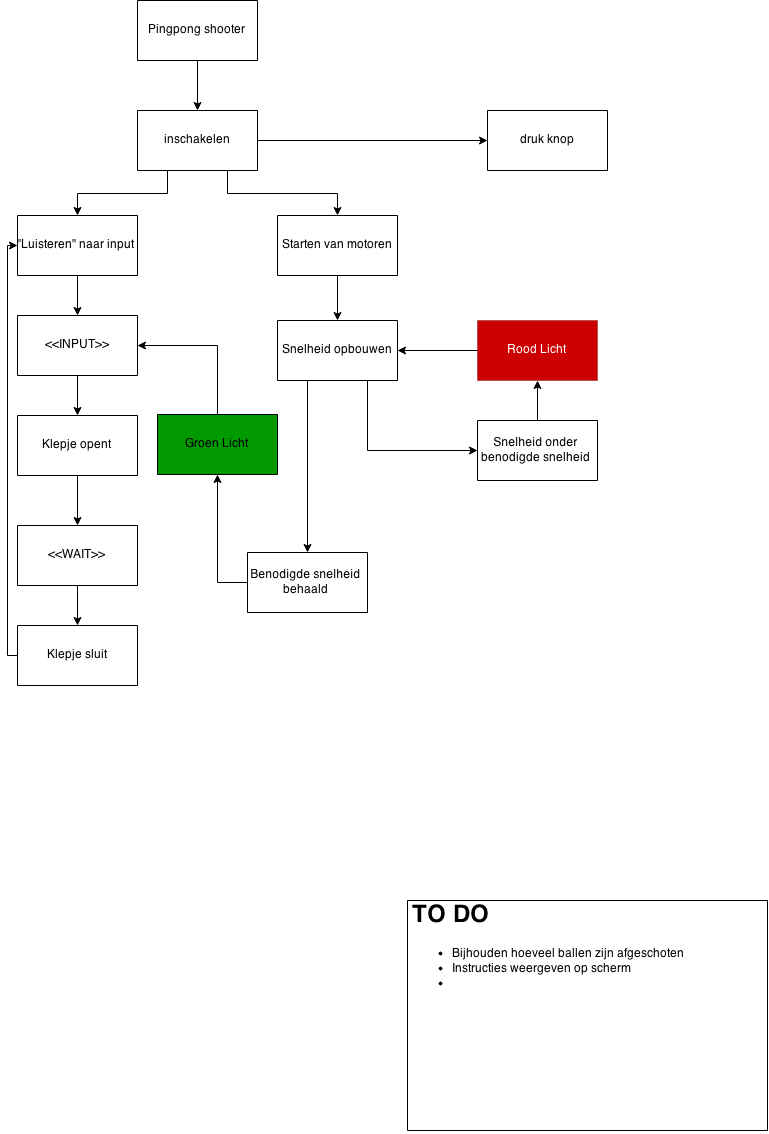
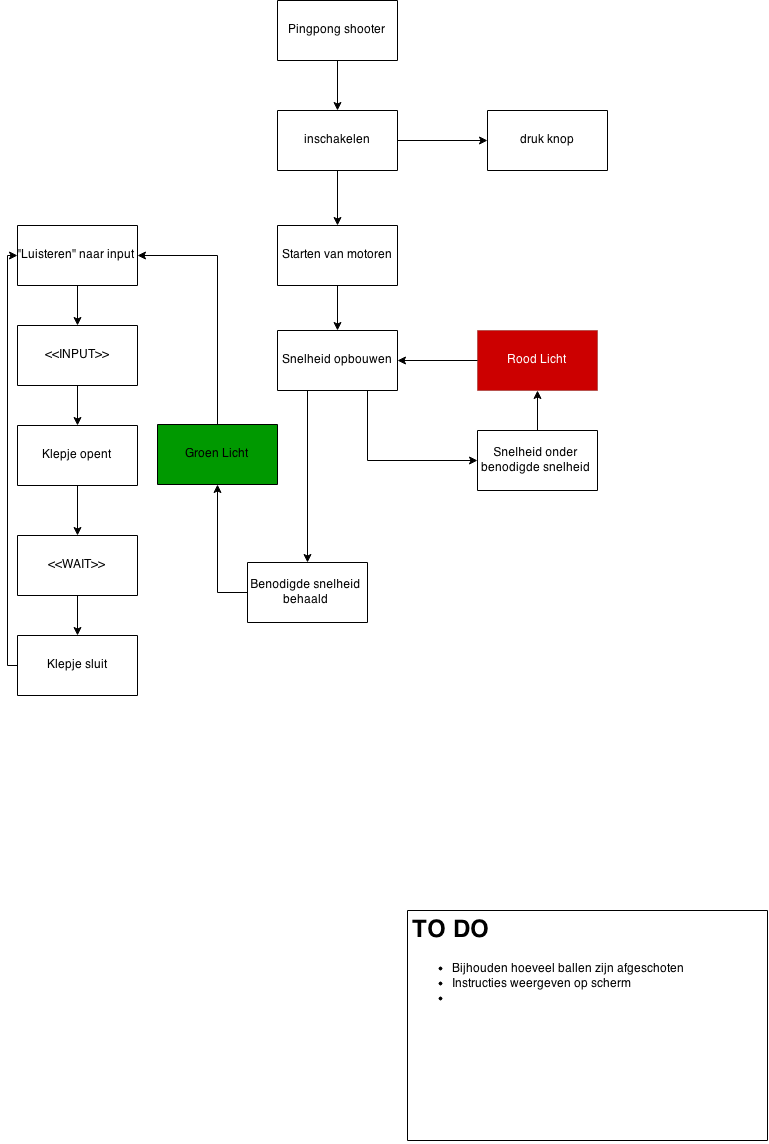
Edited Ping Pong Post

diff --git a/_posts/2015-03-03-ping-pong-shooter.md b/_posts/2015-03-03-ping-pong-shooter.md
@@ -41,3 +41,6 @@ Er zijn ook componenten nodig om dit allemaal werkend te krijgen.
 | drukschakelaar | het geheel aan- en uitschakelen | voorkomt ongelukken |
 
 In het weekend ga ik onderzoeken welke motoren schikt zijn om een bal af te schieten.
+
+##Edit
+woensdag, 11 maart, 2015  :  aanpassing gemaakt in afbeelding, na feedback van medestudenten.
